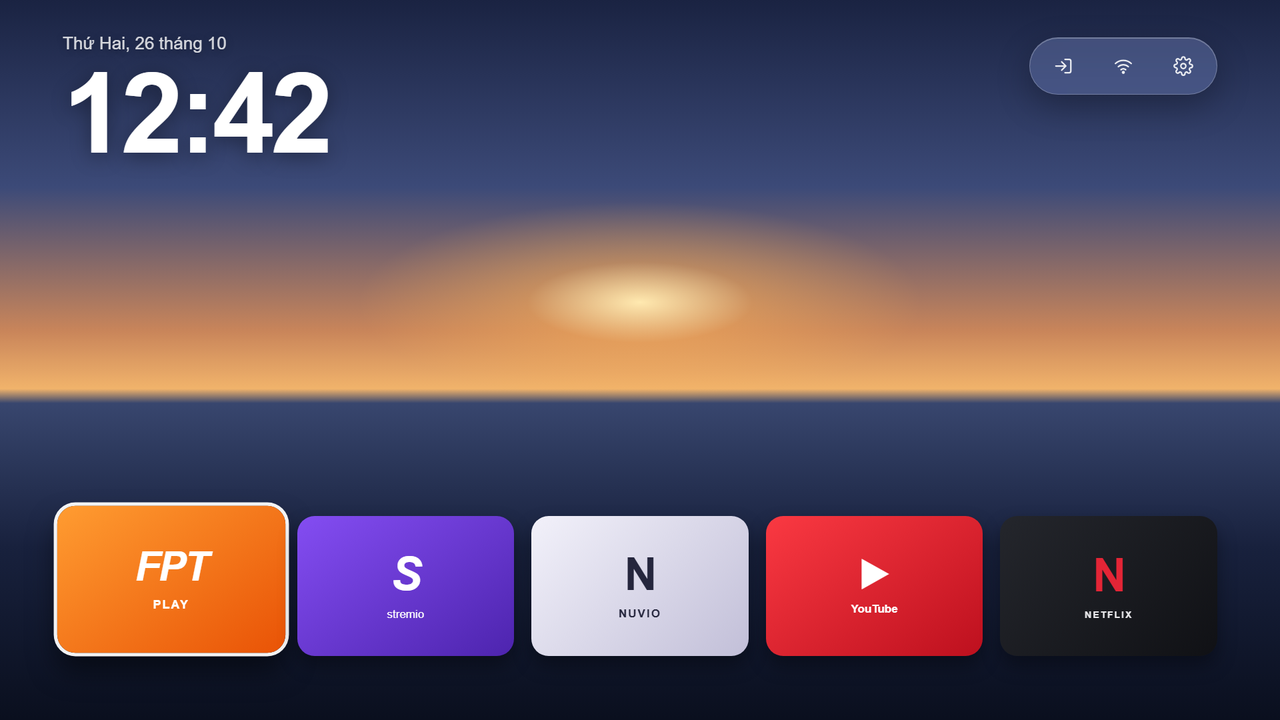
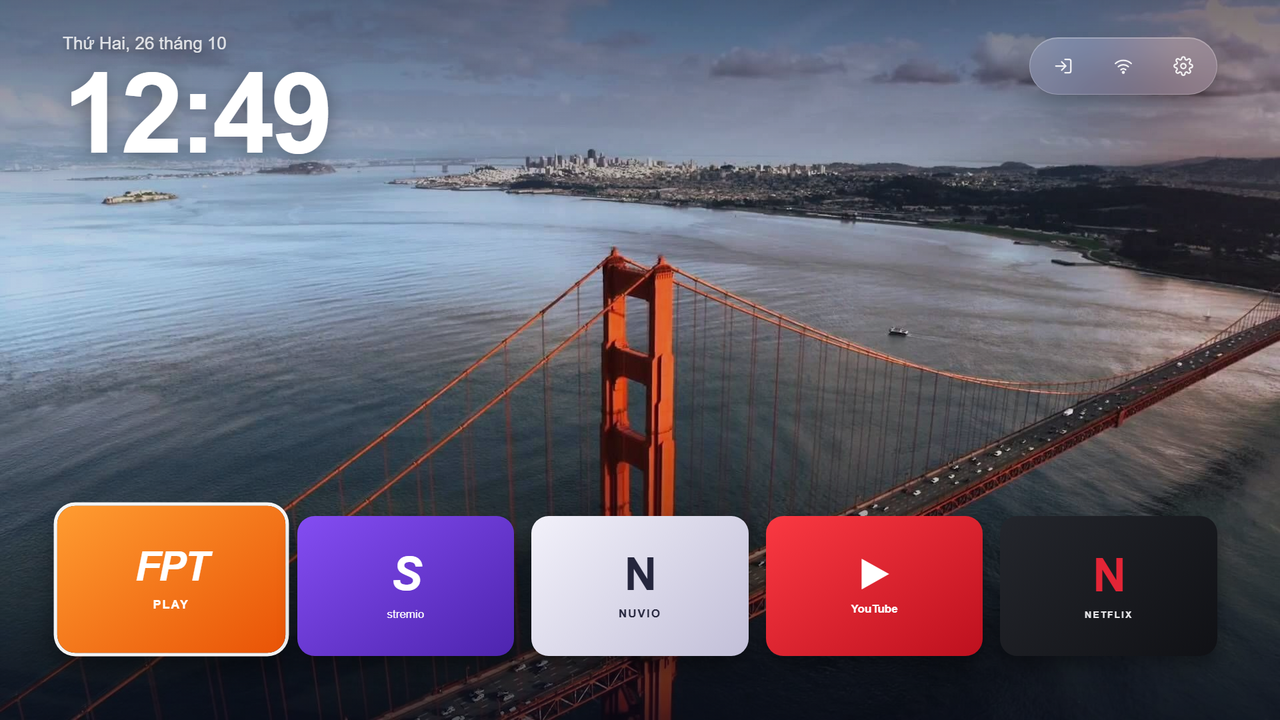
docs: show the launcher over an Apple TV wallpaper in screenshots, with attribution

diff --git a/README.vi.md b/README.vi.md
@@ -11,6 +11,8 @@
 |---|---|
 | ![Menu nguồn vào](docs/images/launcher-input.png) | ![Cài đặt](docs/images/launcher-settings.png) |
 
+*Ảnh nền trong ảnh chụp màn hình: một ảnh aerial của Apple TV, chỉ dùng để minh hoạ. Quyền thuộc về chủ sở hữu và không nằm trong giấy phép MIT của dự án. Repo không kèm ảnh nền; hãy dùng ảnh bạn có quyền sử dụng.*
+
 ## Có gì trong launcher
 
 - Đồng hồ và ngày lớn, thanh nhanh **Nguồn vào**, **Wi-Fi**, **Cài đặt**, và hàng ứng dụng yêu thích.

diff --git a/README.md b/README.md
@@ -12,6 +12,8 @@ Art Mode stay untouched.
 |---|---|
 | ![Input menu](docs/images/launcher-input.png) | ![Settings](docs/images/launcher-settings.png) |
 
+*Screenshot wallpaper: an Apple TV aerial image, used for illustration only. It belongs to its owners and is not covered by this project's MIT license. The repository ships no wallpapers; use images you may use.*
+
 ## Highlights
 
 - Big clock and date, a quick-access pill for **Input**, **Wi-Fi** and **Settings**, and a row of your favourite apps.
